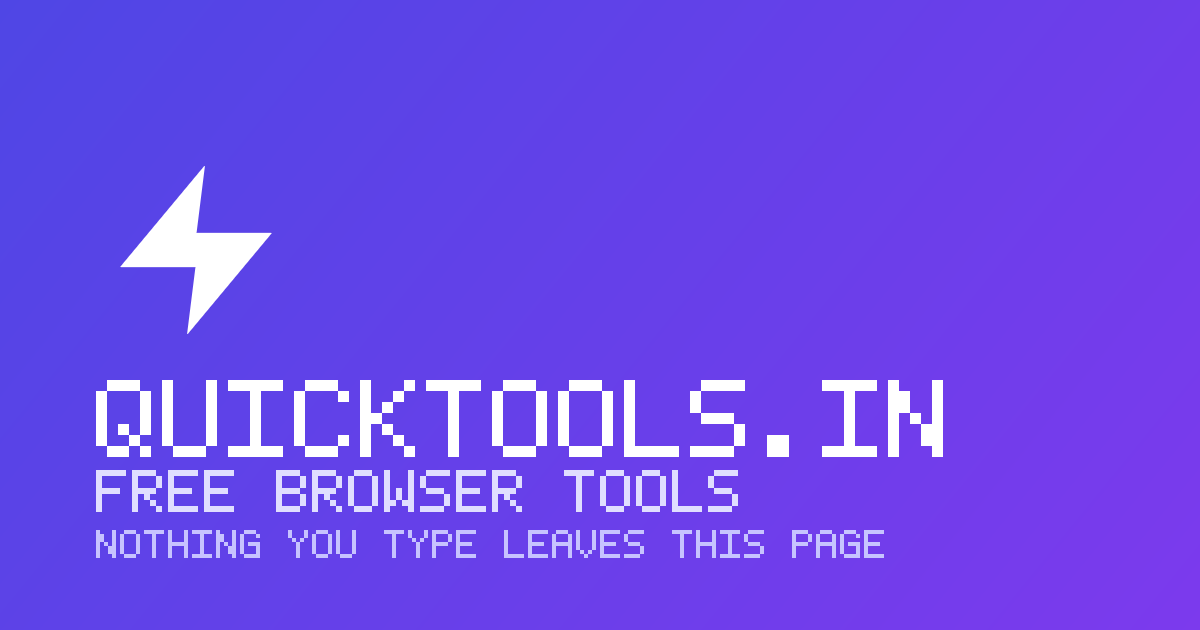
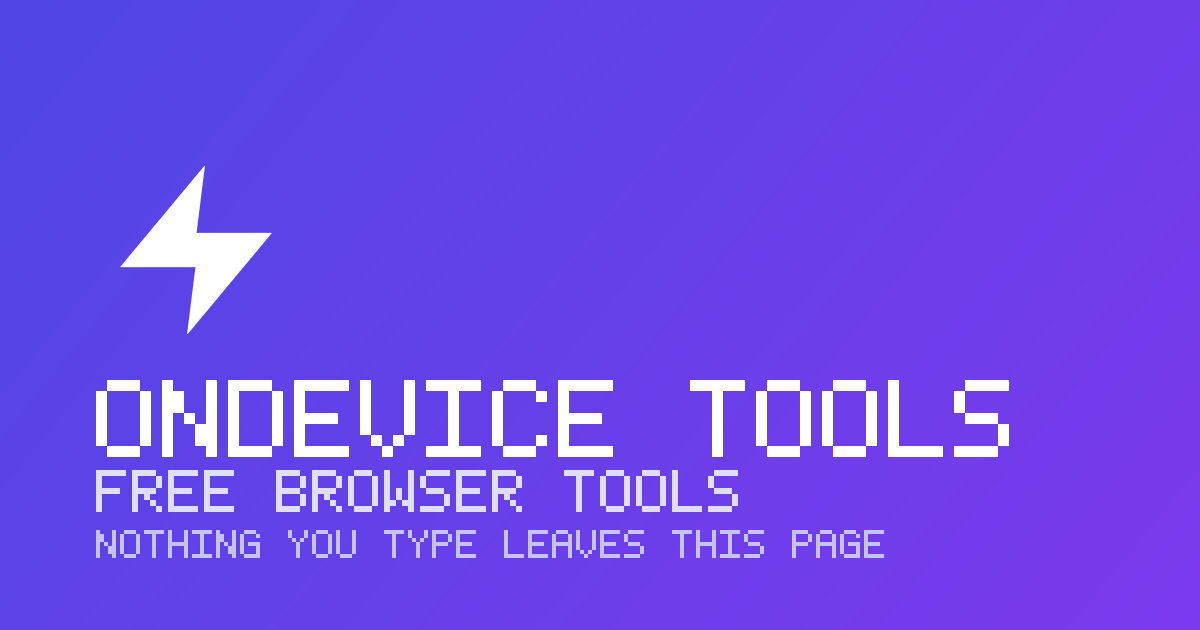
changes for domain and website name

Changed region(s): [[0.4317, 0.6032, 0.8633, 0.7238], [0.0925, 0.6032, 0.4008, 0.7238], [0.1233, 0.6032, 0.1542, 0.6635]]

diff --git a/src/app/pages/privacy/privacy.component.ts b/src/app/pages/privacy/privacy.component.ts
@@ -10,13 +10,13 @@ import { SeoService } from '../../core/seo.service';
     <div class="mx-auto max-w-3xl px-4 py-12 sm:px-6 md:py-16">
       <h1 class="text-3xl font-bold tracking-tight md:text-4xl">Privacy</h1>
       <p class="mt-3 text-lg text-muted">
-        The short version: QuickTools has no backend, so there is nowhere for your data to go.
+        The short version: OnDevice Tools has no backend, so there is nowhere for your data to go.
       </p>
 
       <div class="prose-qt mt-8">
         <h2>What we collect</h2>
         <p>
-          Nothing. QuickTools is a static site. There is no account system, no analytics script, no
+          Nothing. OnDevice Tools is a static site. There is no account system, no analytics script, no
           advertising network and no server-side processing of anything you type, paste or upload.
         </p>
 
@@ -46,7 +46,7 @@ import { SeoService } from '../../core/seo.service';
         <p>
           The site loads its web font from Google Fonts. If you would rather avoid that request
           entirely, blocking it changes nothing except the typeface. Once the service worker has
-          cached the app, QuickTools works fully offline.
+          cached the app, OnDevice Tools works fully offline.
         </p>
 
         <h2>Contact</h2>
@@ -66,7 +66,7 @@ export class PrivacyComponent implements OnInit {
     this.seo.apply({
       title: 'Privacy',
       description:
-        'QuickTools has no backend and collects nothing. Every tool runs in your browser and your files never leave your device.',
+        'OnDevice Tools has no backend and collects nothing. Every tool runs in your browser and your files never leave your device.',
       path: '/privacy',
       keywords: ['privacy', 'no tracking', 'client-side', 'data protection'],
     });

diff --git a/src/app/pages/home/home.component.ts b/src/app/pages/home/home.component.ts
@@ -180,7 +180,7 @@ import { ToolCardComponent } from '../../shared/components/tool-card/tool-card.c
               <app-icon name="sparkle" class="h-5 w-5 text-brand" />
               Recently added
             </h2>
-            <p class="mb-4 text-sm text-muted">The newest additions to QuickTools.</p>
+            <p class="mb-4 text-sm text-muted">The newest additions to OnDevice Tools.</p>
             <ul class="divide-y divide-line overflow-hidden rounded-2xl border border-line">
               @for (tool of newest(); track tool.id) {
                 <li>
@@ -205,7 +205,7 @@ import { ToolCardComponent } from '../../shared/components/tool-card/tool-card.c
         <section class="prose-qt mx-auto max-w-3xl border-t border-line pt-12">
           <h2>Free online tools that respect your privacy</h2>
           <p>
-            QuickTools.in is a collection of {{ toolCount }} browser-based utilities for developers,
+            OnDevice Tools is a collection of {{ toolCount }} browser-based utilities for developers,
             designers, writers and anyone who needs a quick answer. Every tool runs as JavaScript
             inside your own browser tab. There is no upload step, no queue and no account, because
             there is no server doing the work.
@@ -242,7 +242,7 @@ import { ToolCardComponent } from '../../shared/components/tool-card/tool-card.c
           <h3>Is it really free?</h3>
           <p>
             Yes. There is no paid tier, no usage limit and no sign-up. Because processing happens on
-            your device rather than on rented servers, running QuickTools costs almost nothing.
+            your device rather than on rented servers, running OnDevice Tools costs almost nothing.
           </p>
         </section>
       </div>

diff --git a/src/app/layouts/main-layout/main-layout.component.ts b/src/app/layouts/main-layout/main-layout.component.ts
@@ -39,7 +39,7 @@ import { ToastContainerComponent } from '../../shared/components/toast/toast-con
               <app-icon name="bolt" class="h-4.5 w-4.5" />
             </span>
             <span class="text-lg font-bold tracking-tight">
-              QuickTools<span class="text-brand">.in</span>
+              OnDevice <span class="text-brand">Tools</span>
             </span>
           </a>
 
@@ -125,7 +125,7 @@ import { ToastContainerComponent } from '../../shared/components/toast/toast-con
                   <app-icon name="bolt" class="h-4.5 w-4.5" />
                 </span>
                 <span class="text-lg font-bold tracking-tight">
-                  QuickTools<span class="text-brand">.in</span>
+                  OnDevice <span class="text-brand">Tools</span>
                 </span>
               </a>
               <p class="mt-3 max-w-sm text-sm leading-relaxed text-muted">
@@ -159,7 +159,7 @@ import { ToastContainerComponent } from '../../shared/components/toast/toast-con
           <div
             class="mt-10 flex flex-col items-center justify-between gap-3 border-t border-line pt-6 text-sm text-faint sm:flex-row"
           >
-            <p>© {{ year }} QuickTools.in — free forever, no account required.</p>
+            <p>© {{ year }} OnDevice Tools — free forever, no account required.</p>
             <p class="flex items-center gap-1.5">
               <app-icon name="lock" class="h-3.5 w-3.5" />
               100% client-side processing

diff --git a/src/app/pages/all-tools/all-tools.component.ts b/src/app/pages/all-tools/all-tools.component.ts
@@ -15,7 +15,7 @@ import { ToolCardComponent } from '../../shared/components/tool-card/tool-card.c
       <header class="animate-rise mb-8">
         <h1 class="text-3xl font-bold tracking-tight md:text-4xl">All tools</h1>
         <p class="mt-2 max-w-2xl text-lg text-muted">
-          Every one of the {{ total }} QuickTools utilities, filtered live. Nothing you type here
+          Every one of the {{ total }} OnDevice Tools utilities, filtered live. Nothing you type here
           leaves your browser.
         </p>
       </header>
@@ -104,7 +104,7 @@ export class AllToolsComponent implements OnInit {
   ngOnInit(): void {
     this.seo.apply({
       title: `All ${this.total} Free Online Tools`,
-      description: `Browse all ${this.total} free QuickTools utilities — developer, text, image, PDF, CSS, colour, calculator, converter and date tools that run entirely in your browser.`,
+      description: `Browse all ${this.total} free OnDevice Tools utilities — developer, text, image, PDF, CSS, colour, calculator, converter and date tools that run entirely in your browser.`,
       path: '/tools',
       keywords: ['all tools', 'free online tools', 'browser utilities', 'tool directory'],
     });

diff --git a/src/app/core/data/tools/converter.ts b/src/app/core/data/tools/converter.ts
@@ -120,7 +120,7 @@ export const CONVERTER_TOOLS: Tool[] = [
     keywords: ['exchange rate', 'usd', 'eur', 'inr', 'forex', 'money'],
     added: '2026-03-15',
     faqs: [
-      { q: 'Are these live rates?', a: 'No. QuickTools has no backend, so the app ships with static reference rates. They are indicative only and you can edit any rate.' },
+      { q: 'Are these live rates?', a: 'No. OnDevice Tools has no backend, so the app ships with static reference rates. They are indicative only and you can edit any rate.' },
       { q: 'How do I use my own rate?', a: 'Type the rate you were quoted into the rate field and every conversion recalculates from it.' },
       { q: 'Why not fetch live rates?', a: 'That would require calling an external service, which conflicts with the promise that nothing you enter leaves your browser.' },
     ],

diff --git a/src/index.html b/src/index.html
@@ -2,7 +2,7 @@
 <html lang="en">
   <head>
     <meta charset="utf-8" />
-    <title>QuickTools.in — Free Browser-Based Tools</title>
+    <title>OnDevice Tools — Free Browser-Based Tools</title>
     <base href="/" />
     <meta name="viewport" content="width=device-width, initial-scale=1" />
     <meta
@@ -57,7 +57,7 @@
       <div style="padding: 2rem; font-family: system-ui, sans-serif">
         <h1>JavaScript is required</h1>
         <p>
-          QuickTools runs entirely in your browser, so it needs JavaScript enabled. No data is ever
+          OnDevice Tools runs entirely in your browser, so it needs JavaScript enabled. No data is ever
           sent to a server.
         </p>
       </div>

diff --git a/src/app/tools/text/text-compare/text-compare.component.ts b/src/app/tools/text/text-compare/text-compare.component.ts
@@ -11,14 +11,14 @@ const MAX_VISIBLE_ROWS = 800;
 const SAMPLE_LEFT = `# Deployment notes
 Run the build with npm run build.
 The output goes to dist/app/browser.
-Deploy with wrangler pages deploy.
+Deploy with wrangler deploy.
 Remember to set the API key.
 Check the logs afterwards.`;
 
 const SAMPLE_RIGHT = `# Deployment notes
 Run the build with npm run build.
 The output goes to dist/app/browser.
-Deploy with wrangler pages deploy.
+Deploy with wrangler deploy.
 No API key is needed — the app has no backend.
 Check the logs afterwards.
 Tag the release once it is live.`;

diff --git a/src/app/tools/developer/json-formatter/json-formatter.component.ts b/src/app/tools/developer/json-formatter/json-formatter.component.ts
@@ -5,7 +5,7 @@ import { ResultPanelComponent } from '../../../shared/components/result-panel/re
 import { ToolLayoutComponent } from '../../../shared/components/tool-layout/tool-layout.component';
 import { jsonStats, parseJson, sortKeysDeep } from '../lib/json.util';
 
-const SAMPLE = `{"name":"QuickTools","private":true,"tools":[{"id":"json-formatter","tags":["json","format"]}],"version":2}`;
+const SAMPLE = `{"name":"OnDevice Tools","private":true,"tools":[{"id":"json-formatter","tags":["json","format"]}],"version":2}`;
 
 @Component({
   selector: 'app-json-formatter',

diff --git a/src/app/pages/favorites/favorites.component.ts b/src/app/pages/favorites/favorites.component.ts
@@ -60,7 +60,7 @@ export class FavoritesComponent implements OnInit {
   ngOnInit(): void {
     this.seo.apply({
       title: 'Your Favourite Tools',
-      description: 'The QuickTools utilities you have saved, stored locally in your own browser.',
+      description: 'The OnDevice Tools utilities you have saved, stored locally in your own browser.',
       path: '/favorites',
       keywords: ['favourites', 'saved tools', 'bookmarks'],
     });

diff --git a/src/app/pages/not-found/not-found.component.ts b/src/app/pages/not-found/not-found.component.ts
@@ -50,7 +50,7 @@ export class NotFoundComponent implements OnInit {
   ngOnInit(): void {
     this.seo.apply({
       title: 'Page Not Found',
-      description: 'The page you were looking for does not exist. Browse all free QuickTools utilities instead.',
+      description: 'The page you were looking for does not exist. Browse all free OnDevice Tools utilities instead.',
       path: '/404',
     });
   }

diff --git a/src/app/tools/converter/currency-converter/currency-converter.component.ts b/src/app/tools/converter/currency-converter/currency-converter.component.ts
@@ -6,7 +6,7 @@ import { formatUnitValue } from '../lib/units';
 /**
  * Static reference rates, quoted per 1 USD.
  *
- * QuickTools has no backend and makes no network calls, so these ship with the
+ * OnDevice Tools has no backend and makes no network calls, so these ship with the
  * app. They are indicative only — the UI says so, shows the snapshot date, and
  * lets the user override any rate.
  */

diff --git a/src/app/tools/developer/yaml-formatter/yaml-formatter.component.ts b/src/app/tools/developer/yaml-formatter/yaml-formatter.component.ts
@@ -5,10 +5,10 @@ import { ToolLayoutComponent } from '../../../shared/components/tool-layout/tool
 import { YamlError, parseYaml, toYaml } from '../lib/yaml';
 
 const SAMPLE_YAML = `# Deployment configuration
-name: quicktools
+name: ondevice-tools
 replicas: 3
 image:
-  repository: ghcr.io/quicktools/web
+  repository: ghcr.io/ondevice-tools/web
   tag: "2.4.0"
   pullPolicy: IfNotPresent
 env:
